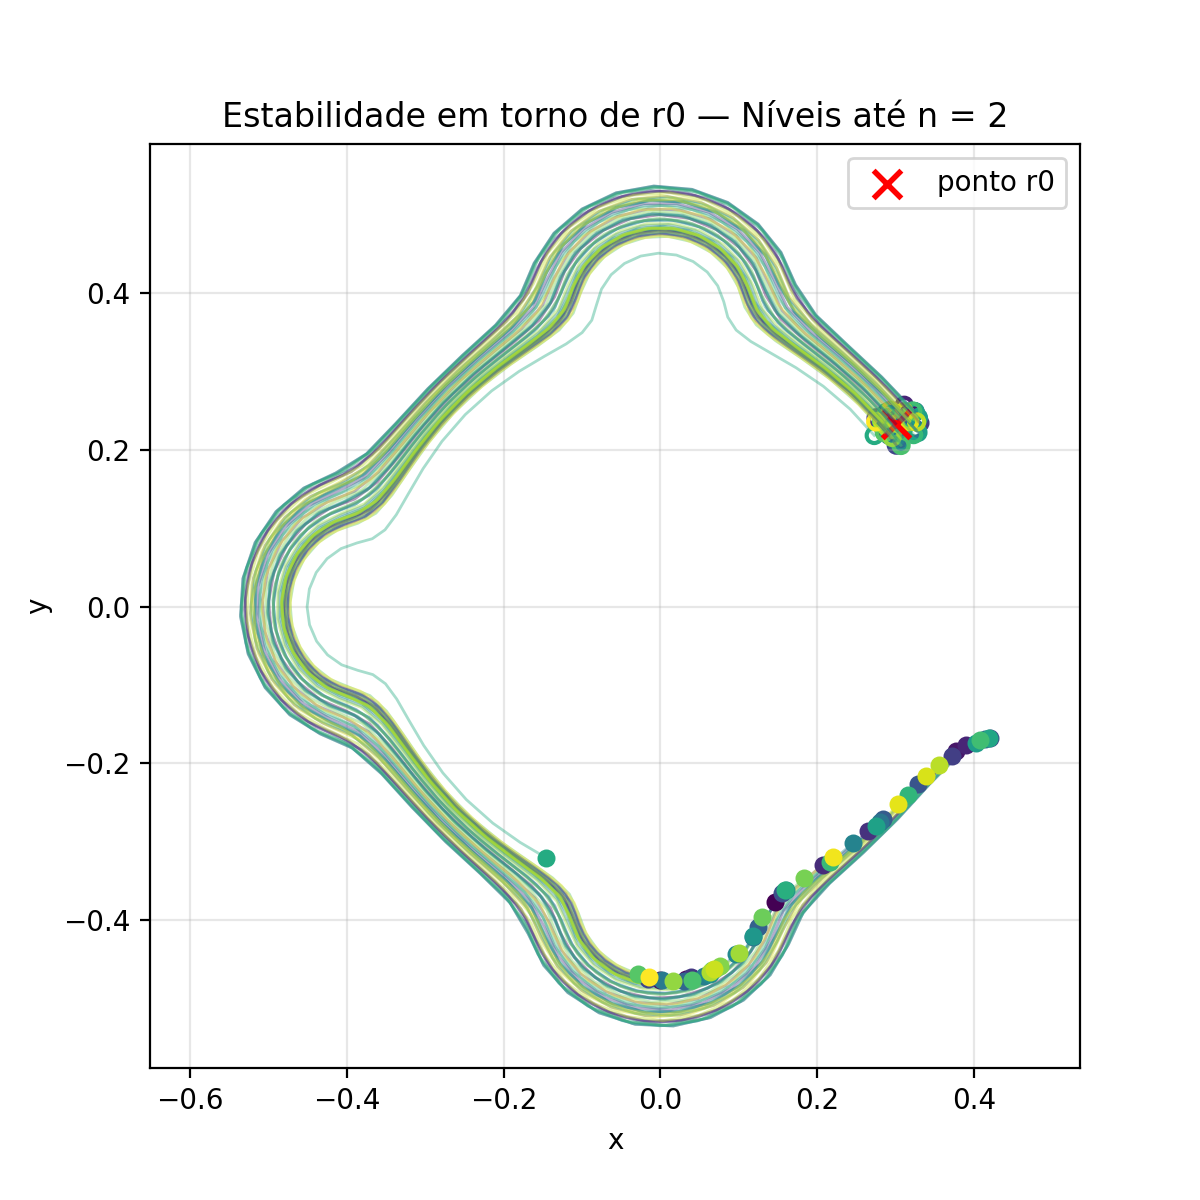
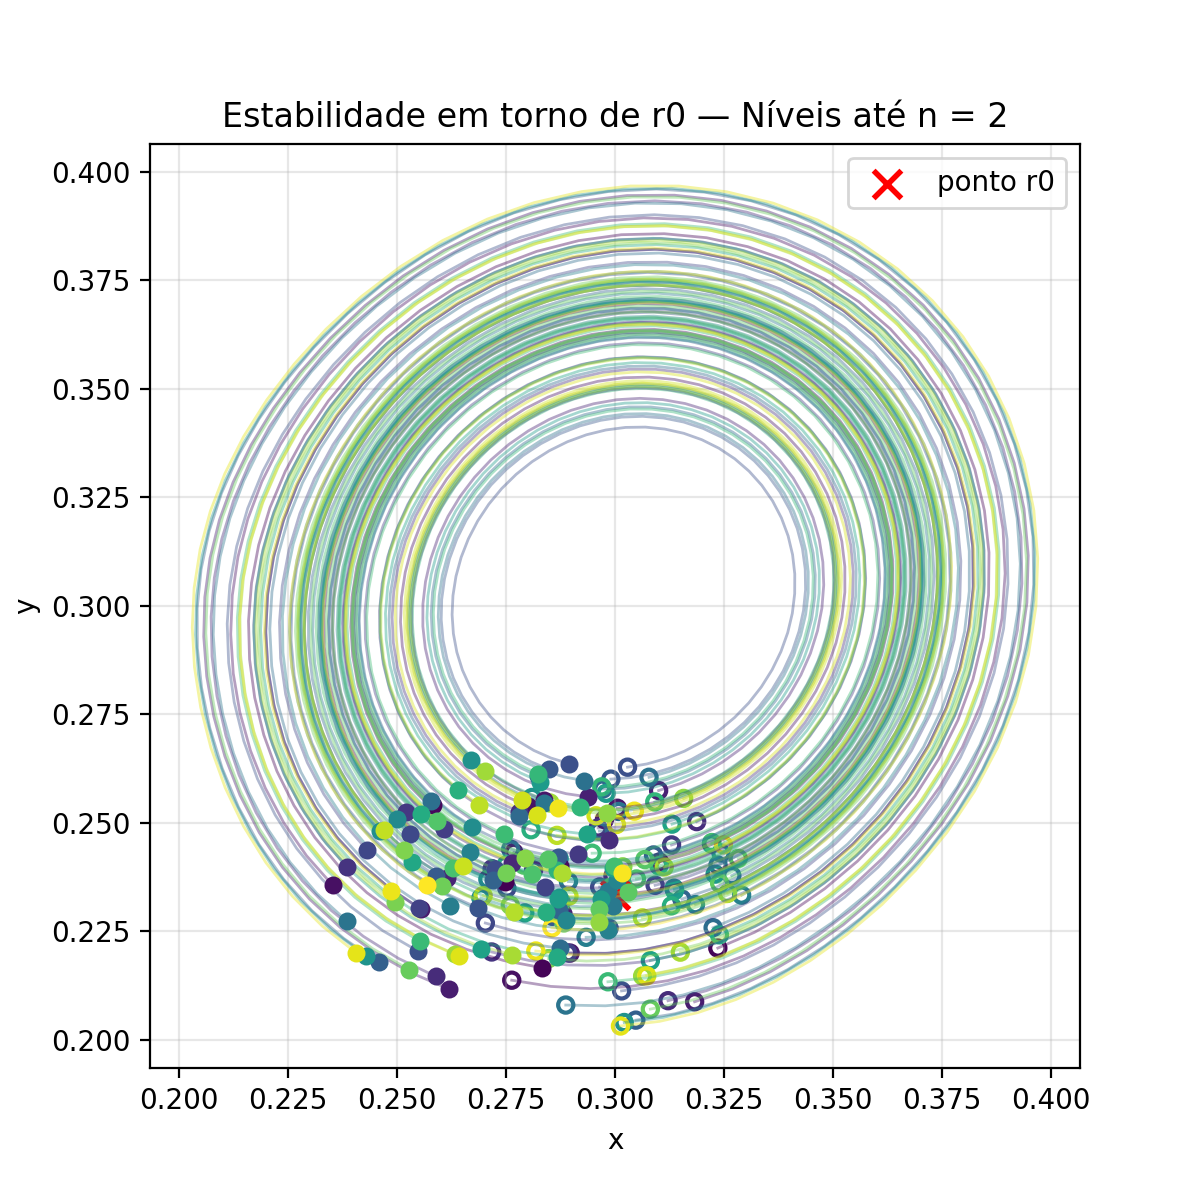
s1

diff --git a/plot_campos.py b/plot_campos.py
@@ -1,7 +1,9 @@
 from matplotlib import pyplot as plt
 import numpy as np
 import campos 
+from funcoes_para_centros import R_1, alpha_padrao, c_padrao, T_1, lamb
 
+from matplotlib.colors import LogNorm
 
 
 def plot_campo(t=0.0, N_fields=3, L=5,x_0=  0, y_0= 0, resolucao=200, func=None):
@@ -50,17 +52,18 @@ def salvar_por_nivel(
     Nmax,
     t=0.0,
     L=.25,
-    x_0=.3,
-    y_0=.3,
-    resolucao=200,
+    x_0=0,
+    y_0=0,
+    resolucao=1000,
     func=None,
-    pasta="campos",
+    pasta_name="campos",
     N_min = 1
 ):
-
+    
     import os
+    pasta = pasta_name + f'_{c_padrao}_{alpha_padrao:.3f}'
     os.makedirs(pasta, exist_ok=True)
-
+    
     for N in range(N_min , Nmax+1):
 
         x = np.linspace(-L+x_0, L+x_0, resolucao)
@@ -81,29 +84,132 @@ def salvar_por_nivel(
         fig, ax = plt.subplots(figsize=(8,8))
 
         stream = ax.streamplot(
-            X,Y,
-            Vx,Vy,
+            X, Y,
+            Vx, Vy,
             color=V,
             cmap="viridis",
-            density=2.5
+            density=2.0,
+            norm=LogNorm(
+                vmin=max(V[V>0].min(),1e-12),
+                vmax=V.max()
+            )
         )
 
+        parametros = (
+        rf"$R_1 = {R_1}$" "\n"
+        rf"$T_1 = {T_1}$" "\n"
+        rf"$\lambda = {lamb:.3f}$" "\n"
+        rf"$\alpha = {alpha_padrao:.3f}$" "\n"
+        rf"$c = {c_padrao}$" "\n"
+        rf"$t = {t}$"
+        )
+        ax.text(
+            0.02, 0.98,                 # posição relativa
+            parametros,
+            transform=plt.gca().transAxes,
+            fontsize=12,
+            verticalalignment='top',
+            bbox=dict(
+                boxstyle='round',
+                facecolor='white',
+                alpha=0.85
+            )
+        )
         fig.colorbar(stream.lines,label="|V|")
 
-        ax.set_title(f"Nível {N}")
+        ax.set_title(f"Campo vetorial — N = {N}")
         ax.set_aspect('equal')
-
+        
         nome = f"{pasta}/campo_nivel_{N:02d}.png"
 
-        plt.tight_layout()
+        plt.tight_layout(rect=[0,0,0.85,1])
+        plt.savefig(nome,dpi=300)
+        plt.close(fig)
+
+        print(f"salvo: {nome}")
+
+def salvar_por_nivel(
+    Nmax,
+    t=0.0,
+    L=.25,
+    x_0=0,
+    y_0=0,
+    resolucao=200,
+    func=None,
+    pasta_name="campos",
+    N_min = 1
+):
+    
+    import os
+    pasta = pasta_name + f'_{c_padrao}_{alpha_padrao:.3f}'
+    os.makedirs(pasta, exist_ok=True)
+    
+    for N in range(N_min , Nmax+1):
+
+        x = np.linspace(-L+x_0, L+x_0, resolucao)
+        y = np.linspace(-L+y_0, L+y_0, resolucao)
+
+        X, Y = np.meshgrid(x,y)
+
+        xp = X.ravel()
+        yp = Y.ravel()
+
+        Vx, Vy = func(xp, yp, t, N)
+
+        Vx = Vx.reshape(X.shape)
+        Vy = Vy.reshape(Y.shape)
+
+        V = np.sqrt(Vx**2 + Vy**2)
+        norma = np.sqrt(Vx**2 + Vy**2)
+
+        Vx_plot = Vx/(norma + 1e-12)
+        Vy_plot = Vy/(norma + 1e-12)
+        fig, ax = plt.subplots(figsize=(8,8))
+
+        stream = ax.streamplot(
+            X, Y,
+            Vx_plot, Vy_plot,
+            color=np.log10(norma + 1e-12),
+            cmap="viridis",
+            density=3
+        )
+        parametros = (
+        rf"$R_1 = {R_1}$" "\n"
+        rf"$T_1 = {T_1}$" "\n"
+        rf"$\lambda = {lamb:.3f}$" "\n"
+        rf"$\alpha = {alpha_padrao:.3f}$" "\n"
+        rf"$c = {c_padrao}$" "\n"
+        rf"$t = {t}$"
+        )
+        ax.text(
+            0.02, 0.98,                 # posição relativa
+            parametros,
+            transform=plt.gca().transAxes,
+            fontsize=12,
+            verticalalignment='top',
+            bbox=dict(
+                boxstyle='round',
+                facecolor='white',
+                alpha=0.85
+            )
+        )
+        fig.colorbar(stream.lines,label="|V|")
+
+        ax.set_title(f"Campo vetorial — N = {N}")
+        ax.set_aspect('equal')
+        
+        nome = f"{pasta}/campo_nivel_{N:02d}.png"
+
+        plt.tight_layout(rect=[0,0,0.85,1])
         plt.savefig(nome,dpi=300)
         plt.close(fig)
 
         print(f"salvo: {nome}")
 
 salvar_por_nivel(
-    Nmax=20,
+    Nmax=10,
     t=0,
     func=campos.campo_total_podado,
-    N_min= 9
+    N_min= 1
+
 )

diff --git a/campos.py b/campos.py
@@ -289,8 +289,8 @@ if __name__ =="__main__":
     print(f'subtração do podado: {np.array(d)- np.array(c)}')'''
 
     
-    '''a= 'estabilidade_podada'
-    b ='estabilidade_com_todos_os_pontos'
+    a= 'estabilidade_podada'
+    '''b ='estabilidade_com_todos_os_pontos'
     it.testar_estabilidade_estatico(
         nivel_max=8,
         N_particulas=50,
@@ -310,14 +310,24 @@ if __name__ =="__main__":
         pasta_saida= d,
         funcao=campo_total_correto
     )'''
-    it.testar_estabilidade_temporal(
+    '''it.testar_estabilidade_temporal(
         nivel_max=10,
         N_particulas=1000,
         r0=r0,
-        nivel_min = 8,
+        nivel_min = 1,
         pasta_saida= c,
         funcao=campo_total_podado,
         pasta_saida_info= 'estabilidade_podadda_info'
+    )'''
+    it.testar_estabilidade_temporal(
+        nivel_max=10,
+        N_particulas=100,
+        r0=r0,
+        nivel_min = 1,
+        pasta_saida= a,
+        funcao=campo_total_podado,
+        pasta_saida_info= 'estabilidade_podadda_static_info',
+        temporal= False
     )
 
 

diff --git a/integradores.py b/integradores.py
@@ -206,7 +206,7 @@ def testar_estabilidade_temporal(
         f.write('\n')
         f.write(f"R_1 = {R_1},       T_1 = {T_1},     lambda = {lamb} \n")
         f.write(f"alpha de corte = {alpha_padrao}, Fator c = {c_padrao}\n")
-        f.write(f"r_0 = {r0}, Número de partículas: {N_particulas}\n")
+        f.write(f"r_0 = {r0}, Número de partículas: {N_particulas}, Temporal: {temporal}\n")
         f.write("Estatísticas: \n")
         f.write('\n')
         
@@ -216,7 +216,7 @@ def testar_estabilidade_temporal(
         t0 = time.perf_counter()
 
         # Escalas naturais do nível
-        L = fc.R(n)/16         # tamanho da nuvem inicial
+        L = fc.R(n)/8         # tamanho da nuvem inicial
         dt = 0.03 * fc.R(n)             # passo temporal
         t_max = lamb/2        # tempo total (alguns períodos)
 
